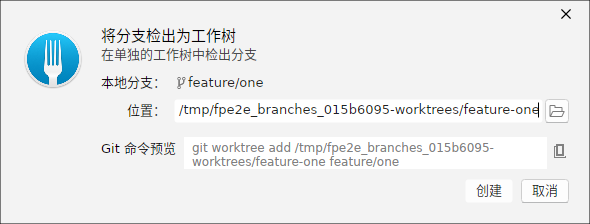
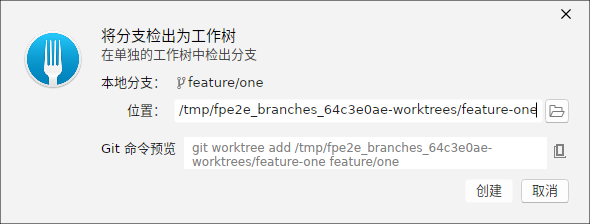
docs(manual): 第 9 章 分支操作、第 10 章 标签操作(含中文界面截图)

Changed region(s): [[0.5492, 0.4688, 0.9153, 0.5312], [0.7322, 0.625, 0.8542, 0.6875]]

diff --git a/docs/manual/ch-09-branches.html b/docs/manual/ch-09-branches.html
@@ -1,0 +1,102 @@
+<!DOCTYPE html>
+<html lang="zh-CN">
+<head>
+<meta charset="utf-8">
+<meta name="viewport" content="width=device-width, initial-scale=1">
+<title>第 9 章 · 分支操作 · ForkPlus 用户手册</title>
+<link rel="stylesheet" href="assets/manual.css">
+</head>
+<body>
+<header class="manual-header">
+  <h1>第 9 章 · 分支操作</h1>
+  <p>ForkPlus 用户手册 · 版本 v4.1.5</p>
+</header>
+<nav class="manual-nav">
+  <a href="index.html">总览</a>
+  <a href="ch-09-branches.html" class="active">分支操作</a>
+  <a href="ch-10-tags.html">标签操作</a>
+  <a href="ch-11-history-rewrite.html">历史改写</a>
+  <a href="ch-12-stash.html">Stash 贮藏</a>
+  <a href="ch-13-remotes.html">远程交互</a>
+  <a href="ch-14-conflicts.html">合并冲突解决</a>
+  <a href="ch-15-submodule-worktree.html">子模块与 Worktree</a>
+  <a href="ch-16-patch-snapshot.html">补丁与快照</a>
+</nav>
+<main class="manual-main">
+  <h2>分支列表总览</h2>
+  <p>打开仓库后，会在侧边栏/提交图区域展示当前仓库的全部分支。主界面会标注当前检出的活跃分支、每个本地分支指向的提交，以及工作区状态，方便你快速掌握仓库拓扑。</p>
+
+  <figure>
+    <img src="screenshots/09-branches/01-branch-list.png" alt="分支列表总览" loading="lazy">
+    <figcaption>图 9-1　仓库主界面中的分支列表 / 侧边栏 / 提交图</figcaption>
+  </figure>
+
+  <p>本示例仓库包含 <code>main</code> 与两条特性分支（<code>feature/one</code>、<code>feature/two</code>），分别含各自的独立提交。你可以在一个启动的对话框中创建、检出、重命名或删除分支。</p>
+
+  <h2>创建分支</h2>
+  <p>在「新建分支」对话框中输入合法的分支名，即可基于当前活跃分支创建新分支。输入名称时，对话框底部会实时预览将要执行的 <code>git</code> 命令。</p>
+
+  <figure>
+    <img src="screenshots/09-branches/02-create-branch.png" alt="创建分支对话框" loading="lazy">
+    <figcaption>图 9-2　创建新分支：输入分支名并预览 git 命令</figcaption>
+  </figure>
+
+  <div class="note"><strong>提示：</strong>分支名不能为空或非法；两者任一不满足时「创建」按钮会禁用，并在命令预览中以占位符 <code>&lt;branch-name&gt;</code> 展示命令骨架。你也可以选择是否在创建后立即检出该分支。</div>
+
+  <h2>检出分支</h2>
+  <p>「检出分支」对话框列出可以切换的目标分支。选定后点击确定，工作区将检出到目标分支。切换前请确保没有会阻塞检出的未提交改动。</p>
+
+  <figure>
+    <img src="screenshots/09-branches/03-checkout-branch.png" alt="检出分支对话框" loading="lazy">
+    <figcaption>图 9-3　检出分支：选择要切换到的分支</figcaption>
+  </figure>
+
+  <h2>重命名分支</h2>
+  <p>「重命名本地分支」对话框允许你为已有分支换一个新名字。输入新名后会即时预览 <code>git branch -m</code> 命令，确认后执行重命名。</p>
+
+  <figure>
+    <img src="screenshots/09-branches/04-rename-branch.png" alt="重命名分支对话框" loading="lazy">
+    <figcaption>图 9-4　重命名分支：输入新名称并预览命令</figcaption>
+  </figure>
+
+  <h2>删除本地分支</h2>
+  <p>「删除本地分支」对话框以列表形式展示可选分支。你可以勾选一个或多个分支进行删除，并决定是否同时删除对应的远程分支。如果分支有未合并的提交，删除前需要确认强制删除。</p>
+
+  <figure>
+    <img src="screenshots/09-branches/05-remove-local-branch.png" alt="删除本地分支对话框" loading="lazy">
+    <figcaption>图 9-5　删除本地分支：选择分支并从列表移除</figcaption>
+  </figure>
+
+  <h2>检测分支为 Worktree</h2>
+  <p>除了在主工作区检出分支，你还可以把某个分支「检出为 Worktree」——在独立目录中检出该分支，实现并行开发互不干扰。对话框会自动派生一个合法的落地路径，也可自行调整。</p>
+
+  <figure>
+    <img src="screenshots/09-branches/06-checkout-as-worktree.png" alt="检出分支为 Worktree 对话框" loading="lazy">
+    <figcaption>图 9-6　检出分支为 Worktree：自动派生目标目录并执行 <code>git worktree add</code></figcaption>
+  </figure>
+
+  <div class="tip"><strong>小贴士：</strong>使用 Worktree 可以同时检出多个分支而无需切换主工作区；每个 Worktree 拥有独立的工作目录与索引，非常适合并行维护多个版本。</div>
+
+  <h2>跟踪远程分支</h2>
+  <p>当远程出现了本地不存在的新分支时，可选中该远程分支并「跟踪」它——在本地创建对应分支并建立上下游关系（<code>--track</code>/<code>--set-upstream</code>），之后 <code>fetch/pull/push</code> 都会默认处理该分支。</p>
+
+  <figure>
+    <img src="screenshots/09-branches/07-track-remote-branch.png" alt="跟踪远程分支对话框" loading="lazy">
+    <figcaption>图 9-7　跟踪远程分支：为本地建立到远程分支的追踪关系</figcaption>
+  </figure>
+
+  <h2>推送多个分支</h2>
+  <p>「推送多分支」对话框集中列出可推送的本地分支并预选目标远程。你可以一次性选择多个分支推送到远程（写远端的同一个 <code>origin</code>），并预览对应的 <code>git push</code> 命令。</p>
+
+  <figure>
+    <img src="screenshots/09-branches/08-push-multiple-branches.png" alt="推送多分支对话框" loading="lazy">
+    <figcaption>图 9-8　推送多分支：选择目标远程与多个待推送分支</figcaption>
+  </figure>
+
+  <div class="note"><strong>说明：</strong>推送到新建分支时，对话框会单独展示追踪与命令预览，详见「远程交互」章节。</div>
+</main>
+<footer class="manual-footer">
+  ForkPlus 用户手册 · 第 9 章 · 分支操作
+</footer>
+</body>
+</html>

diff --git a/docs/manual/ch-10-tags.html b/docs/manual/ch-10-tags.html
@@ -1,0 +1,94 @@
+<!DOCTYPE html>
+<html lang="zh-CN">
+<head>
+<meta charset="utf-8">
+<meta name="viewport" content="width=device-width, initial-scale=1">
+<title>第 10 章 · 标签操作 · ForkPlus 用户手册</title>
+<link rel="stylesheet" href="assets/manual.css">
+</head>
+<body>
+<header class="manual-header">
+  <h1>第 10 章 · 标签操作</h1>
+  <p>ForkPlus 用户手册 · 版本 v4.1.5</p>
+</header>
+<nav class="manual-nav">
+  <a href="index.html">总览</a>
+  <a href="ch-09-branches.html">分支操作</a>
+  <a href="ch-10-tags.html" class="active">标签操作</a>
+  <a href="ch-11-history-rewrite.html">历史改写</a>
+  <a href="ch-12-stash.html">Stash 贮藏</a>
+  <a href="ch-13-remotes.html">远程交互</a>
+  <a href="ch-14-conflicts.html">合并冲突解决</a>
+  <a href="ch-15-submodule-worktree.html">子模块与 Worktree</a>
+  <a href="ch-16-patch-snapshot.html">补丁与快照</a>
+</nav>
+<main class="manual-main">
+  <h2>创建标签</h2>
+  <p>在「创建标签」对话框中输入标签名，并可附加说明消息。选择目标提交后，对话框底部会实时预览要执行的 <code>git tag</code> 命令（附注标签默认使用 <code>-a</code> 与 <code>-m</code>）。</p>
+
+  <figure>
+    <img src="screenshots/10-tags/01-create-tag.png" alt="创建标签对话框" loading="lazy">
+    <figcaption>图 10-1　创建标签：输入名称、消息并预览 git 命令</figcaption>
+  </figure>
+
+  <h2>标签详情：附注标签</h2>
+  <p>选择某个标签后可查看其详情窗口。附注标签（annotated）带有创建者、创建时间、消息与指向的对象类型，并展示其所指的提交信息，便于追溯发布版本。</p>
+
+  <figure>
+    <img src="screenshots/10-tags/02-tag-details-annotated.png" alt="附注标签详情窗口" loading="lazy">
+    <figcaption>图 10-2　附注标签详情：作者、日期、消息与指向提交</figcaption>
+  </figure>
+
+  <h2>标签详情：轻量标签</h2>
+  <p>轻量标签（lightweight）只是某个提交的直接引用，不携带独立的标签对象。在详情窗口中会如实展示它直接指向提交、而没有标签自身的作者/消息字段。</p>
+
+  <figure>
+    <img src="screenshots/10-tags/03-tag-details-lightweight.png" alt="轻量标签详情窗口" loading="lazy">
+    <figcaption>图 10-3　轻量标签详情：直接指向提交、无独立标签对象</figcaption>
+  </figure>
+
+  <h2>删除多个标签</h2>
+  <p>「删除标签」对话框以列表形式展示标签。可以勾选一个或多个标签批量删除，并选择是否同时从远程删除（对应 <code>git push origin :refs/tags/&lt;name&gt;</code>）。</p>
+
+  <figure>
+    <img src="screenshots/10-tags/04-remove-tags-multi.png" alt="删除多标签对话框" loading="lazy">
+    <figcaption>图 10-4　删除多个标签：列表多选并移除</figcaption>
+  </figure>
+
+  <h2>创建并推送标签</h2>
+  <p>创建标签时勾选「创建后推送到远程」，会在本地创建标签后立即 <code>git push</code> 到选中远程；命令预览随之切换为包含推送的完整命令链。</p>
+
+  <figure>
+    <img src="screenshots/10-tags/05-create-tag-push.png" alt="创建并推送标签" loading="lazy">
+    <figcaption>图 10-5　创建标签并推送：勾选推送开关预览完整命令</figcaption>
+  </figure>
+
+  <h2>删除标签并同步远程</h2>
+  <p>当你需要删除某个标签时，可勾选「同时从远程删除」。此时对话框会在本地删除之外，追加远程删除命令，保证远端标签一并清理。</p>
+
+  <figure>
+    <img src="screenshots/10-tags/06-remove-tag-remote.png" alt="删除标签并删除远程标签" loading="lazy">
+    <figcaption>图 10-6　删除标签并从远程删除：两级命令预览</figcaption>
+  </figure>
+
+  <h2>推送单个标签</h2>
+  <p>对单个标签，可单独发起推送使其在远程出现。选定目标远程后，窗口会预览 <code>git push origin &lt;tag&gt;</code> 对应的推送命令。</p>
+
+  <figure>
+    <img src="screenshots/10-tags/07-push-tag.png" alt="推送单个标签" loading="lazy">
+    <figcaption>图 10-7　推送单个标签到远程</figcaption>
+  </figure>
+
+  <h2>推送多个标签</h2>
+  <p>多条标签需要同步到远程时，可一次勾选多个标签批量推送，避免逐条操作。命令预览会汇总为一次远程推送。</p>
+
+  <figure>
+    <img src="screenshots/10-tags/08-push-tags-multi.png" alt="推送多标签" loading="lazy">
+    <figcaption>图 10-8　一次推送多个标签到远程</figcaption>
+  </figure>
+</main>
+<footer class="manual-footer">
+  ForkPlus 用户手册 · 第 10 章 · 标签操作
+</footer>
+</body>
+</html>
